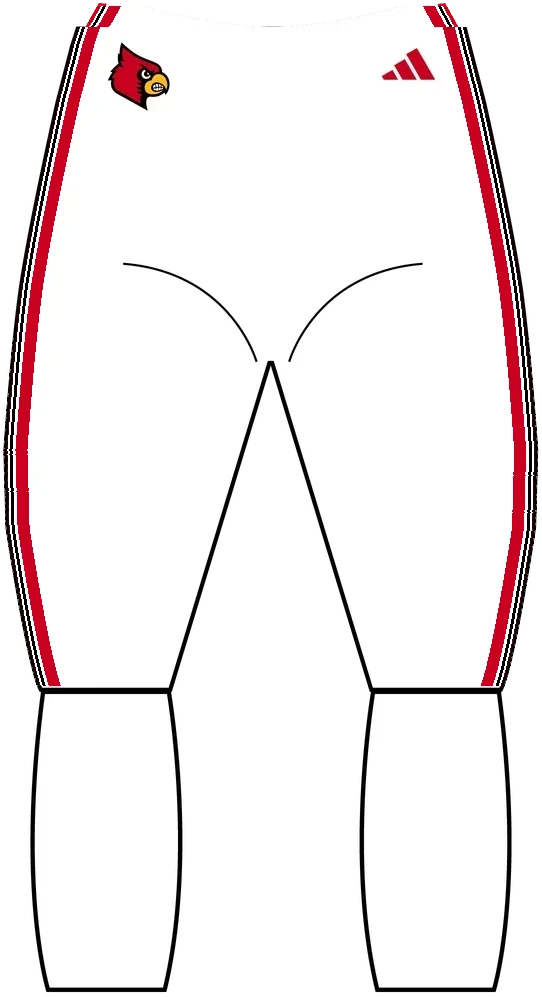
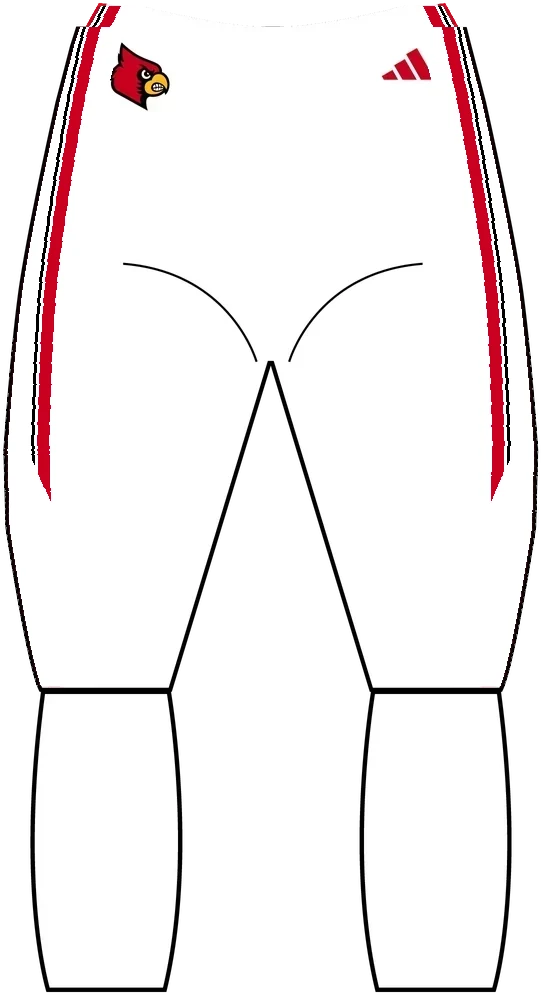
Red and white 2026 pant stripes stop on the thigh, as in the photos
Doc's game photos show the red and white 2026 stripes starting at the hip,
sweeping forward across the thigh and stopping above the knee, cut at an
angle with the front stripe ending lowest. The black 2026 stripes still run
the full seam to the hem.

The panel art draws the stripes that way, and the pants shader gains
uBandSweep and uBandCut so the 3D player matches. ART_VERSION is bumped so
browsers load the new pictures.

Claude-Session: https://claude.ai/code/session_01Cn7A5wwhiT3dYtk1tYmEhf

Changed region(s): [[0.797, 0.0311, 1.0, 0.7151], [0.0, 0.0311, 0.1771, 0.6841]]

diff --git a/src/model.js b/src/model.js
@@ -543,7 +543,7 @@ export class Player {
     const weaveDecl = 'uniform sampler2D uWeave;\nuniform float uWeaveRepeat;\nuniform float uWeaveStrength;\nuniform float uWeaveShade;';
     const pantsU = bandUniforms();
     this.uniforms = {
-      pants: { ...pantsU, ...weaveU, uLogos: { value: this.textures.logos }, uBandEnd: { value: 1 } },
+      pants: { ...pantsU, ...weaveU, uLogos: { value: this.textures.logos }, uBandEnd: { value: 1 }, uBandSweep: { value: 0 }, uBandCut: { value: -1.2 } },
       jersey: {
         uArtFront: { value: this.textures.front },
         uArtBack: { value: this.textures.back },
@@ -612,14 +612,17 @@ export class Player {
       pants: extend(applyMeshFabricInPlace(fabric({ name: 'pants' }), this.fabricMaps.pants, MESH_FABRIC.mesh), {
         attrs: { aSeam: 'float', aLogo: 'vec3', aDown: 'float' },
         uniforms: this.uniforms.pants,
-        declare: `${BANDS_GLSL}\nuniform sampler2D uLogos;\nuniform float uBandEnd;\n${weaveDecl}`,
+        declare: `${BANDS_GLSL}\nuniform sampler2D uLogos;\nuniform float uBandEnd;\nuniform float uBandSweep;\nuniform float uBandCut;\n${weaveDecl}`,
         after: { normal_fragment_maps: `float weaveAmt = 1.0;\n${WEAVE_GLSL}` },
         // Side stripes run the full outside seam, waistband to hem; with
-        // uBandEnd < 1 they stop partway down, cut at an angle.
+        // uBandEnd < 1 they stop partway down, cut at an angle (uBandCut per
+        // meter toward the front). uBandSweep moves them that far toward the
+        // front of the thigh by the time they stop.
         fragment: /* glsl */ `
-          float bandEnd = uBandEnd >= 1.0 ? 2.0 : uBandEnd - vaSeam * 1.2;
+          float bandD = vaSeam - uBandSweep * min(1.0, vaDown / max(uBandEnd, 0.01));
+          float bandEnd = uBandEnd >= 1.0 ? 2.0 : uBandEnd + bandD * uBandCut;
           float bfw = max(fwidth(vaDown), 1e-4);
-          diffuseColor.rgb = mix(diffuseColor.rgb, applyBands(diffuseColor.rgb, vaSeam), 1.0 - smoothstep(bandEnd - bfw, bandEnd + bfw, vaDown));
+          diffuseColor.rgb = mix(diffuseColor.rgb, applyBands(diffuseColor.rgb, bandD), 1.0 - smoothstep(bandEnd - bfw, bandEnd + bfw, vaDown));
           if (vaLogo.z > 0.5 && vaLogo.x > 0.0 && vaLogo.x < 1.0 && vaLogo.y > 0.0 && vaLogo.y < 1.0) {
             vec4 logo = texture2D(uLogos, vaLogo.xy);
             diffuseColor.rgb = mix(diffuseColor.rgb, logo.rgb, logo.a);
@@ -1615,6 +1618,8 @@ export class Player {
     m.pants.sheenColor.copy(sheen(p.base));
     setBands(u.pants, p.bands);
     u.pants.uBandEnd.value = p.bandEnd ?? 1;
+    u.pants.uBandSweep.value = p.bandSweep ?? 0;
+    u.pants.uBandCut.value = p.bandCut ?? -1.2;
     m.belt.color.set(BRAND.black);
     m.socks.color.set(look.socks);
     u.glove.uSock.value.set(look.socks);

diff --git a/src/uniform-art.js b/src/uniform-art.js
@@ -565,7 +565,9 @@ export const ART = {
      "color": "#FFFFFF"
     }
    ],
-   "bandEnd": 1.0,
+   "bandEnd": 0.66,
+   "bandSweep": 0.04,
+   "bandCut": 1.6,
    "logos": "logos-pants-red",
    "logoArt": {
     "width": 1084,
@@ -587,7 +589,9 @@ export const ART = {
      "color": "#C9001F"
     }
    ],
-   "bandEnd": 1.0,
+   "bandEnd": 0.66,
+   "bandSweep": 0.04,
+   "bandCut": 1.6,
    "logos": "logos-pants-white",
    "logoArt": {
     "width": 1084,

diff --git a/src/combo.js b/src/combo.js
@@ -74,7 +74,7 @@ export function groupHex(group) {
 // Art image for a piece, as the panel and the graphic show it. ART_VERSION
 // changes whenever the art is redrawn, so browsers fetch the new pictures
 // instead of showing ones they cached.
-const ART_VERSION = '2026-10-05b';
+const ART_VERSION = '2026-10-05c';
 const art = (file) => `assets/uni/${file}.webp?v=${ART_VERSION}`;
 
 export function artUrl(kind, id, state) {

diff --git a/tools/pants_panels.py b/tools/pants_panels.py
@@ -1,13 +1,14 @@
 #!/usr/bin/env python3
 """Redraw the 2026 pants' side stripes in the panel art to match the field.
 
-The design draws the 2026 side panels as one wide stripe that stops partway
-down the thigh, cut at an angle. In Doc's game photos (2026-10-05) each leg
-carries a thin stripe, a gap of pants color, then a wider stripe, running the
-full outside seam from waistband to hem: black and white on red, black and red
-on white. The black pants carry red, white and red side by side. The 3D player draws the same from BANDS and
-PANEL_END in prepare-uniforms.py. This repaints the strip just inside each
-leg's outline, down to the sock line, in that pattern.
+In Doc's game photos (2026-10-05) the red and white 2026 pants carry a thin
+black stripe, a gap of pants color, then a wider stripe (white on red, red on
+white). They start at the hip, sweep forward across the thigh and stop above
+the knee, cut at an angle with the front stripe ending lowest. The black
+pants carry red, white and red side by side down the full outside seam to
+the hem. The 3D player draws the same from BANDS, PANEL_END and PANEL_SWEEP
+in prepare-uniforms.py. This repaints the strip just inside each leg's
+outline, down to the sock line, in that pattern.
 
 prepare-uniforms.py calls draw_panels() for the pants in STRIPES. Run this
 file directly to patch the WebPs already in assets/uni/ (it only overwrites
@@ -26,9 +27,14 @@ ROOT = Path(__file__).resolve().parent.parent
 # Each pants' color, then its stripes inward from the outline as
 # (color, width in pixels of the 542 px wide panel art); None is pants color.
 # The last entry paints pants color over what is left of the drawn panel.
+# The optional third item stops the stripes partway down: `end` is where the
+# back stripe stops, as a fraction of waistband to sock line; the front one
+# runs `cut` further; `sweep` is how far (px) they move toward the front of
+# the leg by the end.
+THIGH = {'end': 0.66, 'cut': 0.08, 'sweep': 22}
 STRIPES = {
-    'pants-red': ('#C9001F', [(None, 2), ('#000000', 3), (None, 3), ('#FFFFFF', 12), (None, 3)]),
-    'pants-white': ('#FFFFFF', [(None, 2), ('#000000', 3), (None, 3), ('#C9001F', 12), (None, 3)]),
+    'pants-red': ('#C9001F', [(None, 2), ('#000000', 3), (None, 3), ('#FFFFFF', 12), (None, 3)], THIGH),
+    'pants-white': ('#FFFFFF', [(None, 2), ('#000000', 3), (None, 3), ('#C9001F', 12), (None, 3)], THIGH),
     'pants-black': ('#000000', [(None, 2), ('#C9001F', 6), ('#FFFFFF', 4), ('#C9001F', 6), (None, 9)]),
 }
 OUTLINE = 4  # the art's outline, left as drawn
@@ -47,6 +53,8 @@ def draw_panels(img, spec):
     k = w / 542
     o = max(1, round(OUTLINE * k))
     pattern = [base if c is None else rgb(c) for c, n in spec[1] for _ in range(max(1, round(n * k)))]
+    thigh = spec[2] if len(spec) > 2 else None
+    sweep = round(thigh['sweep'] * k) if thigh else 0
     out = a.copy()
 
     def edge(y, side):
@@ -61,12 +69,22 @@ def draw_panels(img, spec):
         probe = round(38 * k)
         sock = next(y for y in range(int(h * 0.6), h) if edge(y, side) is not None
                     and np.abs(a[y, edge(y, side) + side * probe, :3] - base).max() > 40)
-        for y in range(round(6 * k), sock - 1):
+        top = round(6 * k)
+        for y in range(top, sock - 1):
             x = edge(y, side)
             if x is None:
                 continue
-            for i, c in enumerate(pattern):
+            t = (y - top) / (sock - top)
+            shift = round(sweep * min(1.0, t / thigh['end'])) if thigh else 0
+            # Clear the whole strip the stripes can cover, then paint them.
+            for i in range(len(pattern) + sweep):
                 xx = x + side * (o + i)
+                if 0 <= xx < w and a[y, xx, 3] > 128:
+                    out[y, xx, :3] = base
+            for i, c in enumerate(pattern):
+                if thigh and t > thigh['end'] + thigh['cut'] * i / len(pattern):
+                    continue
+                xx = x + side * (o + shift + i)
                 if 0 <= xx < w and a[y, xx, 3] > 128:
                     out[y, xx, :3] = c
     return Image.fromarray(out.clip(0, 255).astype(np.uint8), 'RGBA')

diff --git a/tools/prepare-uniforms.py b/tools/prepare-uniforms.py
@@ -60,9 +60,14 @@ PANTS = ['pants-red', 'pants-white', 'pants-black', 'pants-red-script', 'pants-w
          'pants-black-script', 'pants-red-20', 'pants-white-20', 'pants-black-20', 'pants-whitealt-20',
          'pants-halloween', 'pants-ironwings', 'pants-redgold', 'pants-black-23']
 # Where a side panel stops, as a fraction of the way from waist to the
-# bottom of the pants, when game photos disagree with the drawing: the 2026
-# stripes run the full outside seam, waistband to hem (1.0 = no cut).
-PANEL_END = {'pants-red': 1.0, 'pants-white': 1.0, 'pants-black': 1.0}
+# bottom of the pants, when game photos disagree with the drawing (1.0 = no
+# cut). In Doc's photos (2026-10-05) the red and white 2026 stripes start at
+# the hip, sweep forward across the thigh and stop above the knee, the front
+# stripe ending lowest; the black 2026 stripes run the full seam to the hem.
+PANEL_END = {'pants-red': 0.66, 'pants-white': 0.66, 'pants-black': 1.0}
+# For those: how far (m) the stripes move toward the front by where they
+# stop, and how much lower the cut sits per meter toward the front.
+PANEL_SWEEP = {'pants-red': (0.04, 1.6), 'pants-white': (0.04, 1.6)}
 # Stripes set by hand instead of read from the art (meters from the outer
 # seam, + toward the front; later bands paint over earlier ones): the red
 # and white 2026 pants carry a thin black stripe, a gap of pants color, then
@@ -299,6 +304,7 @@ for name in PANTS:
     save_webp(draw_panels(img, STRIPES[name]) if name in STRIPES else img, name, 542)
     spec['pants'][name] = {
         'base': hexof(base), 'socks': hexof(socks), 'bands': bands, 'bandEnd': band_end,
+        **({'bandSweep': PANEL_SWEEP[name][0], 'bandCut': PANEL_SWEEP[name][1]} if name in PANEL_SWEEP else {}),
         'logos': f'logos-{name}', 'logoArt': {'width': w, 'height': 600},
     }
 
